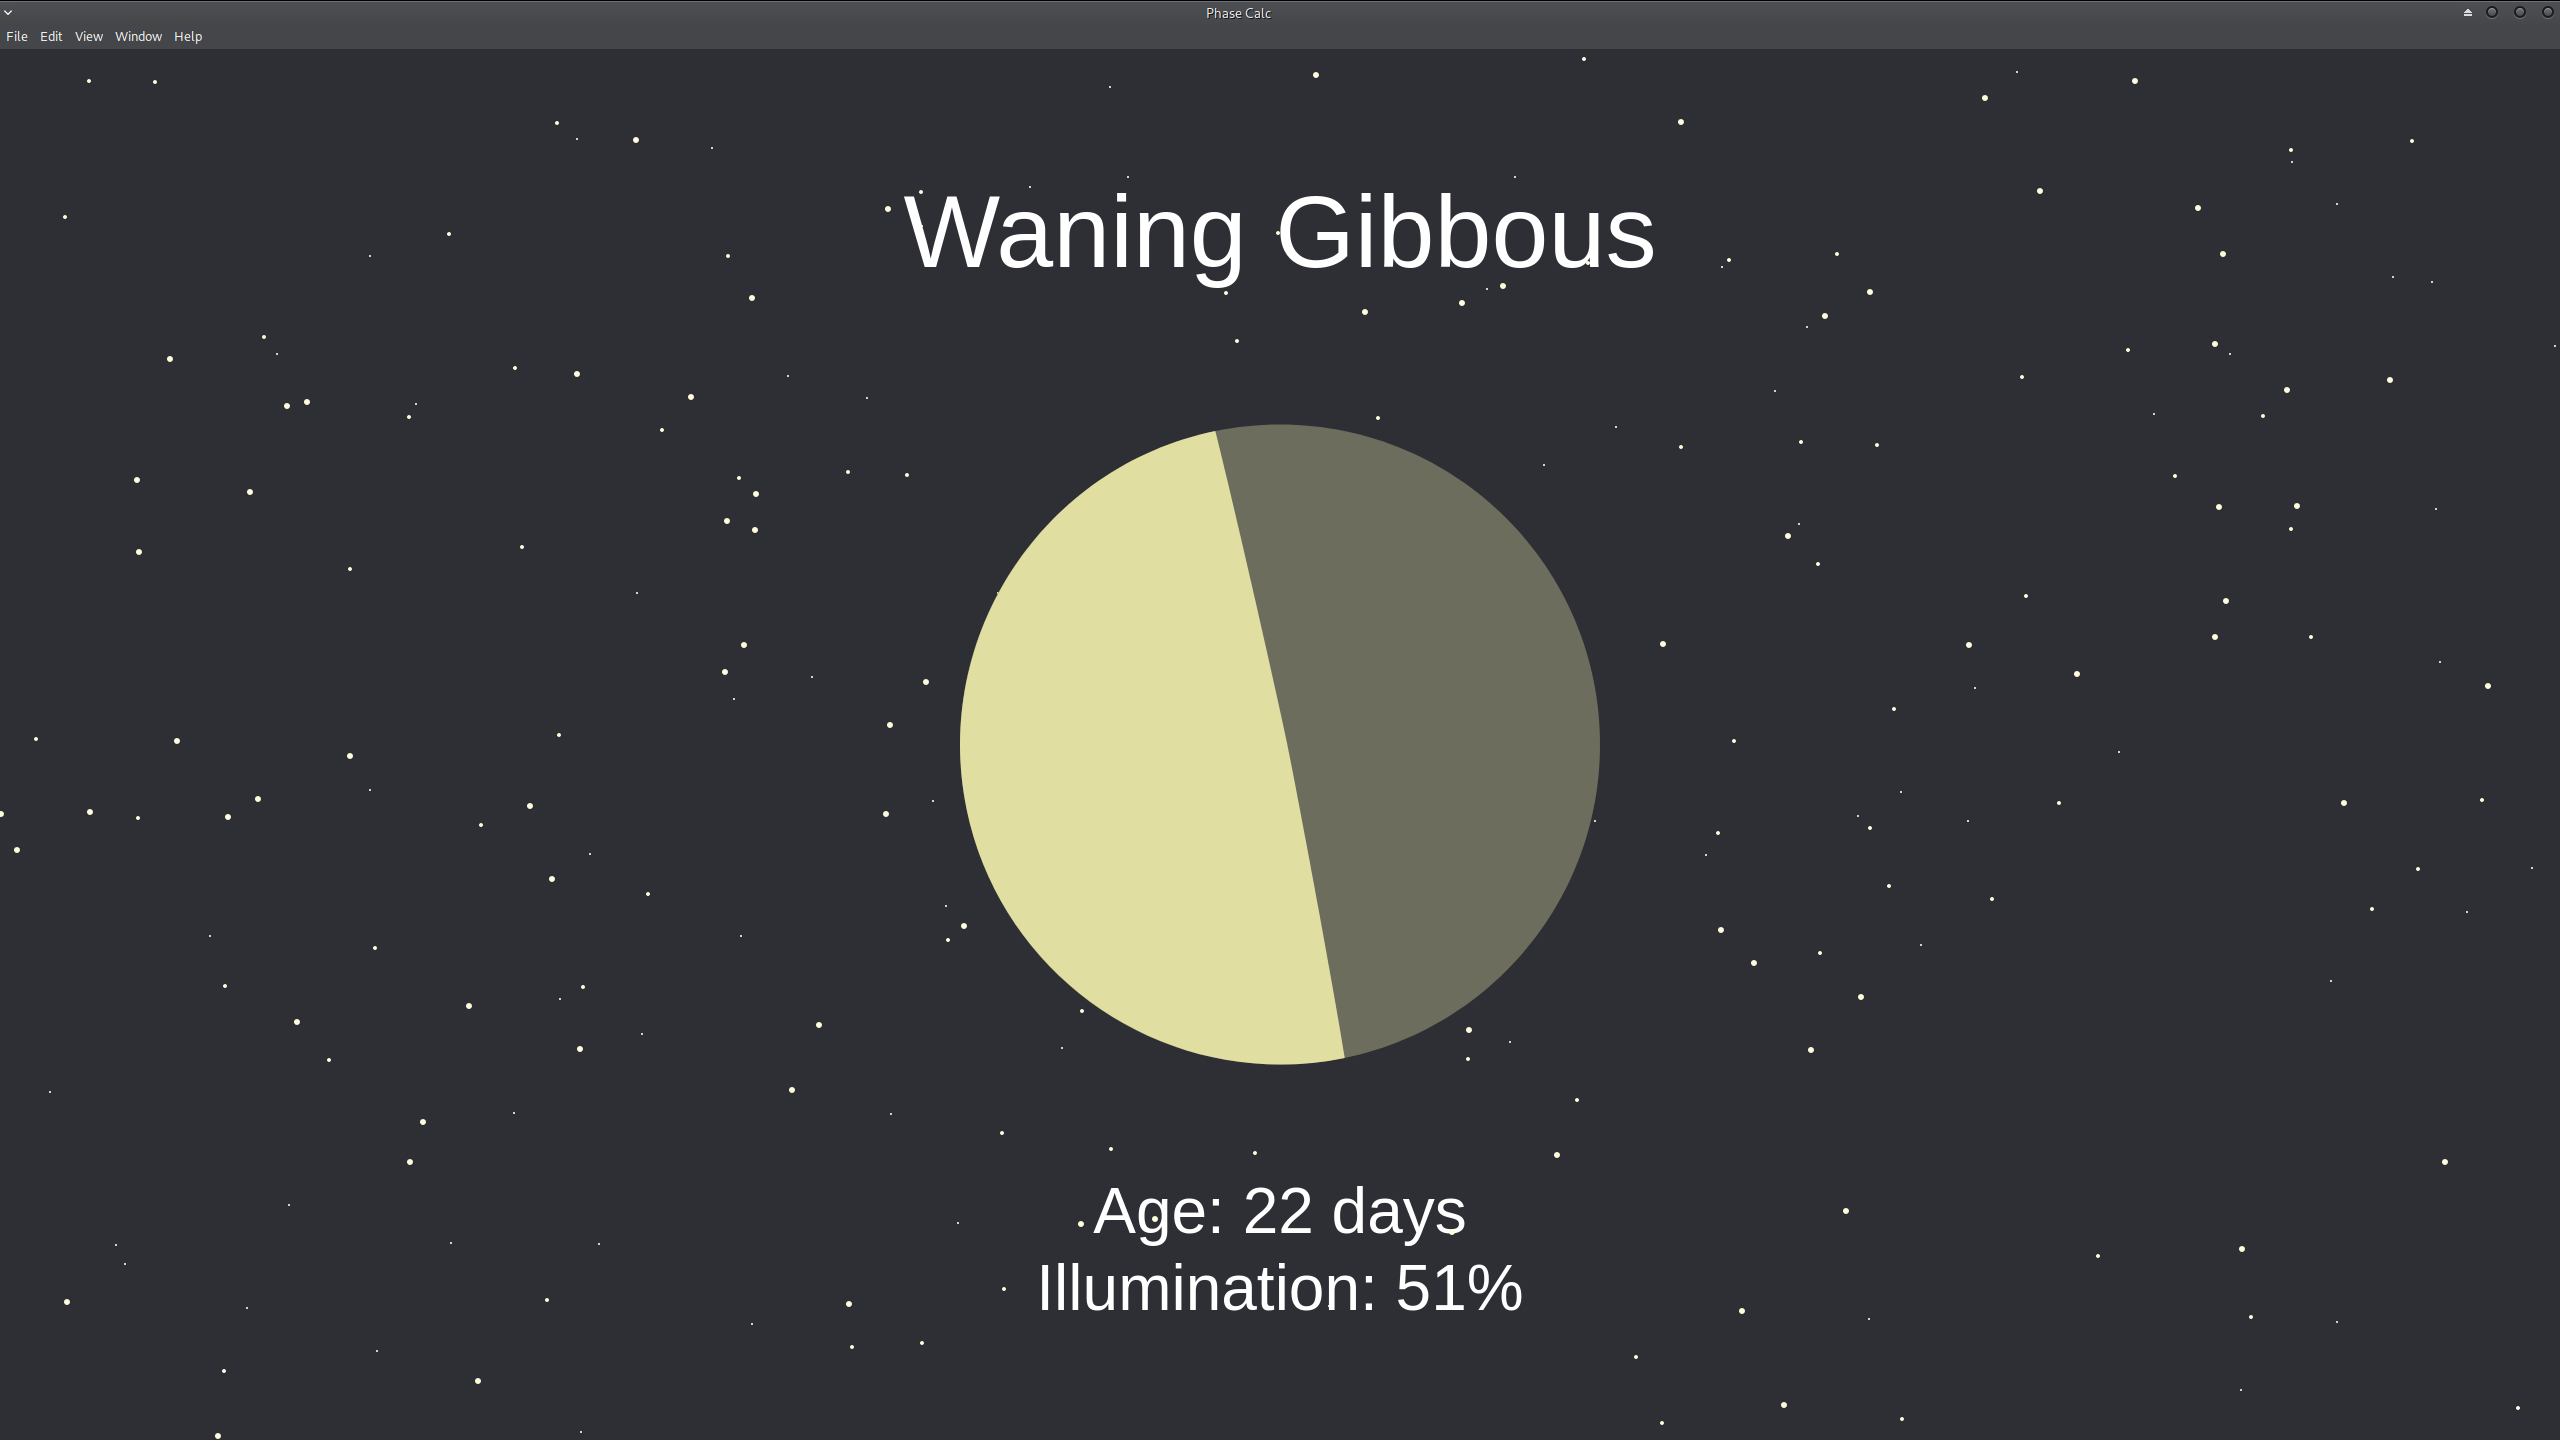
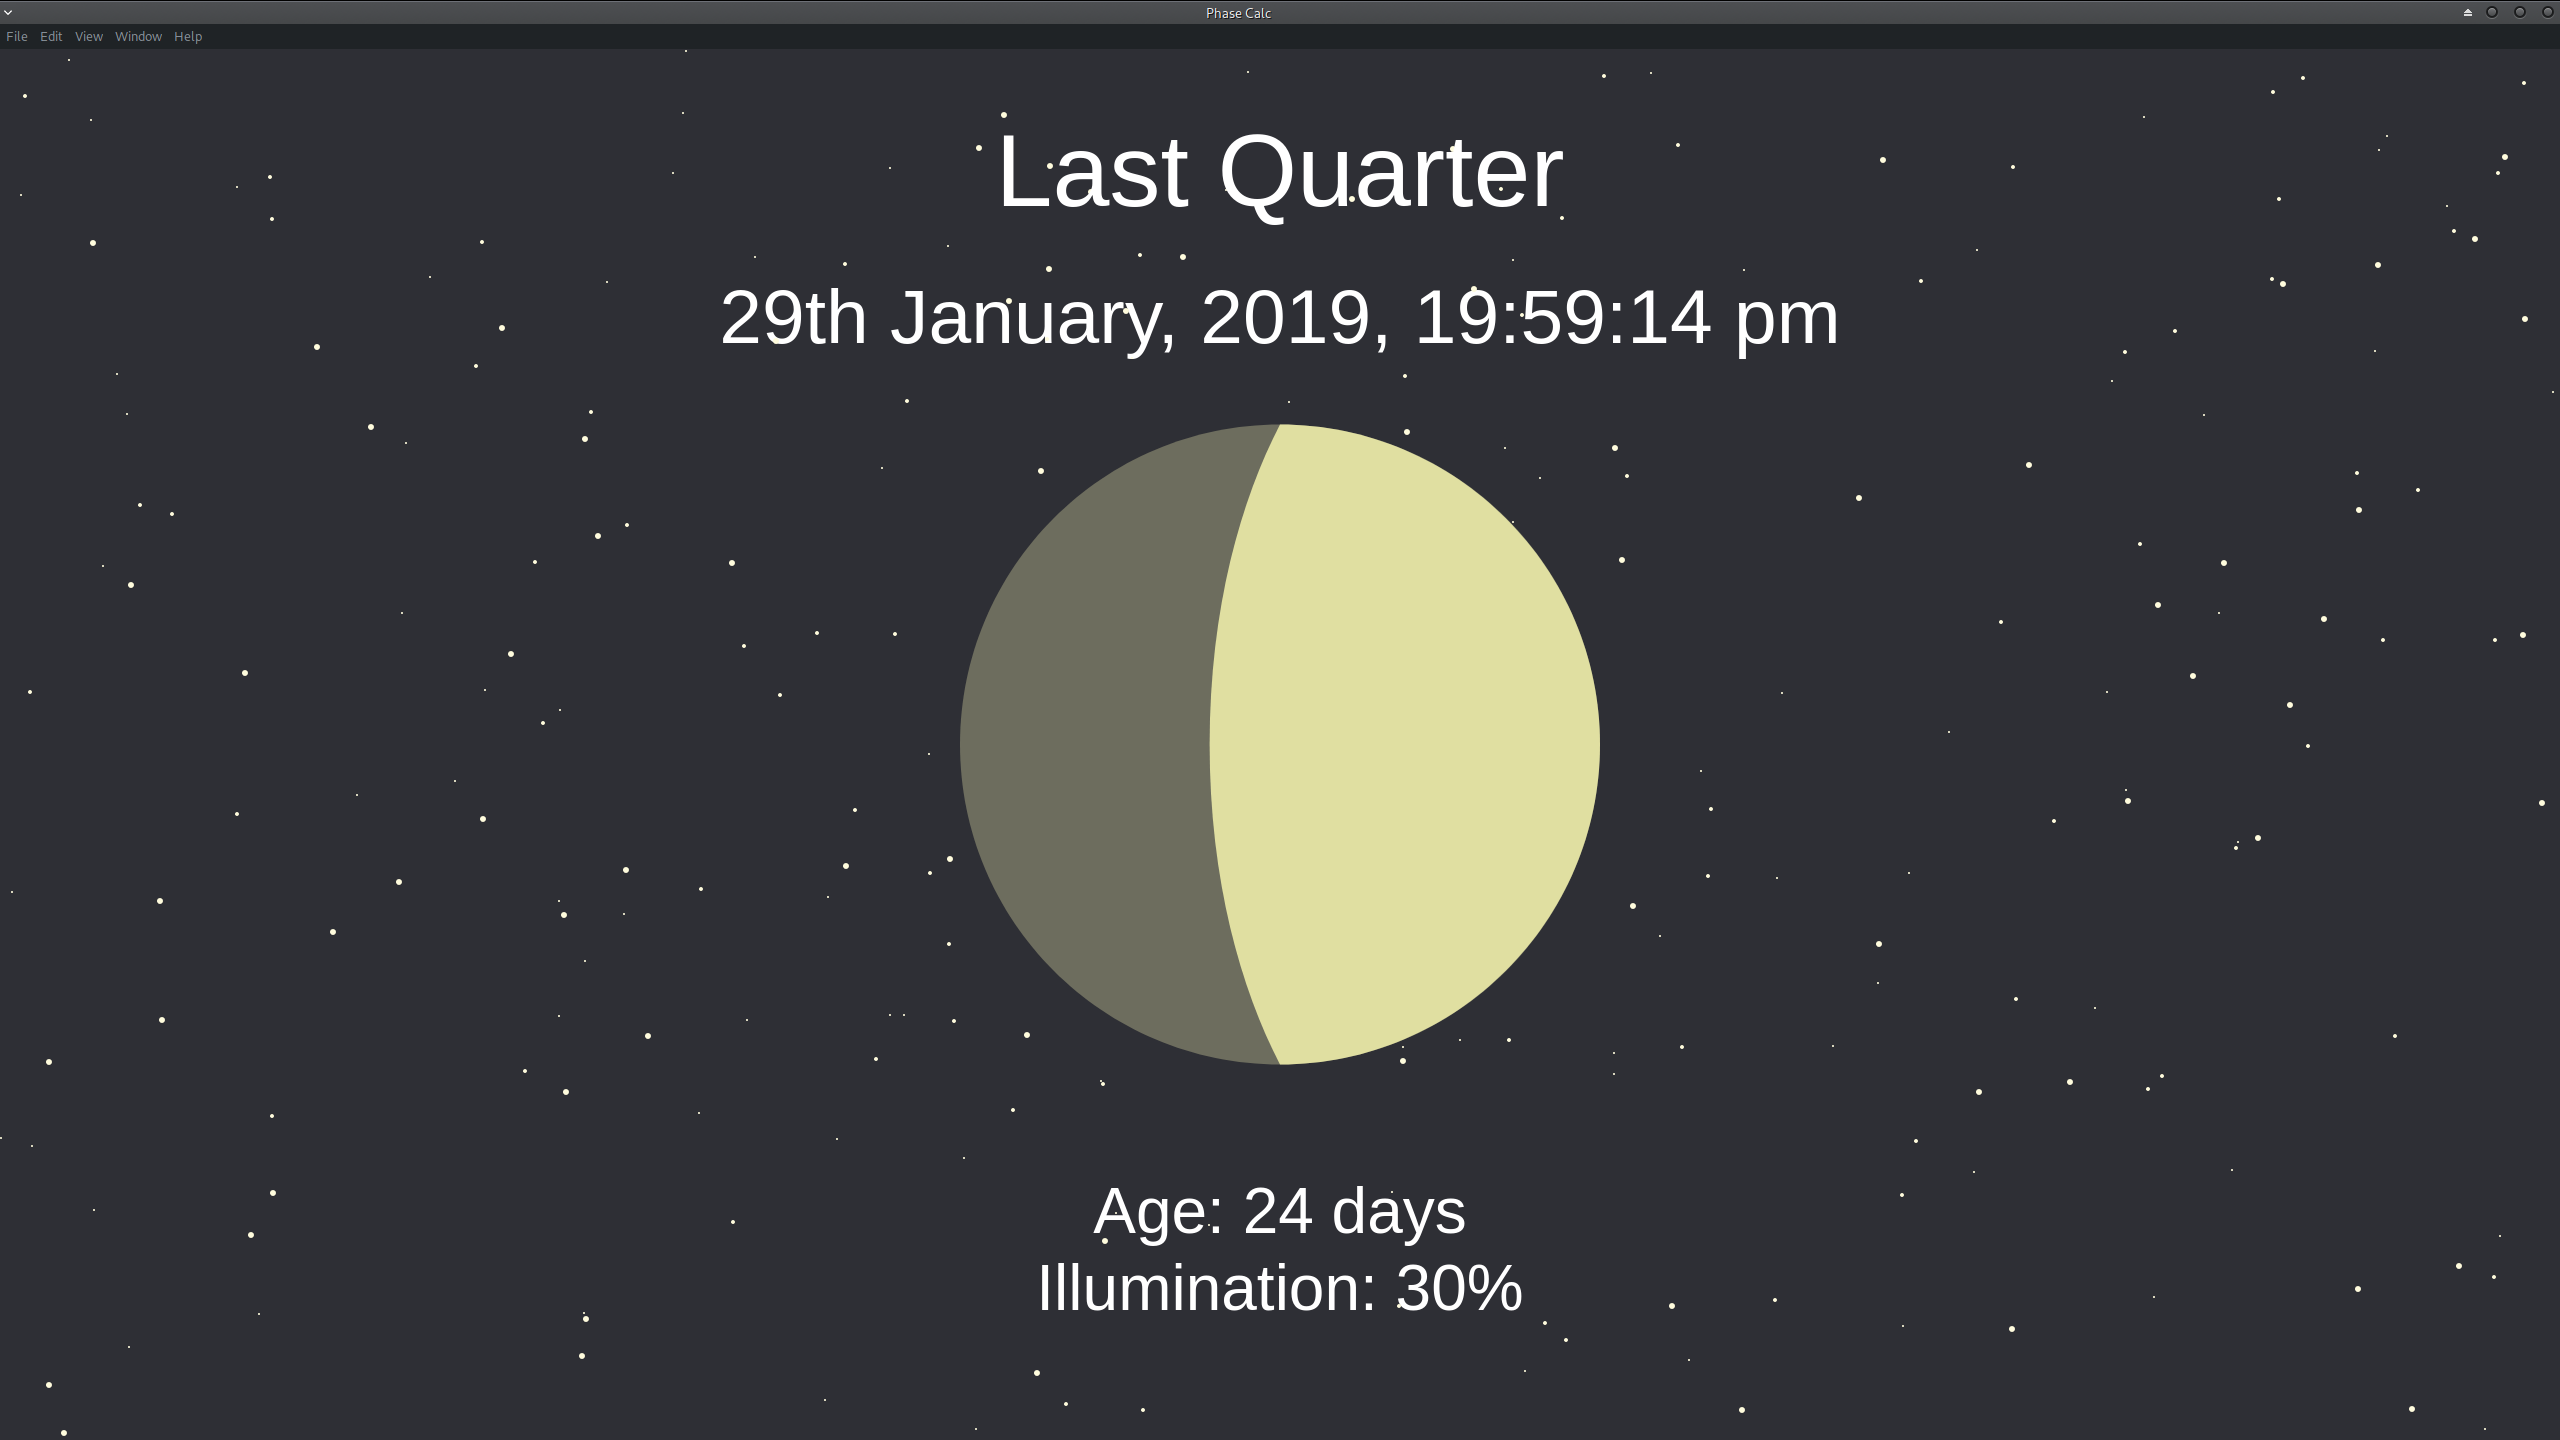
Date string under moon name

diff --git a/app/static/scripts/paperMoon.js b/app/static/scripts/paperMoon.js
@@ -69,12 +69,13 @@ function setCrescentCurve(xVal) {
 	
 	curve[0].handle2.x = curve[3].handle1.x = deltaX55
 	
-	curve[0].handle1.y = deltaX55 - ((cirLen - Math.abs(deltaX55)) * 0.12)
+	curve[0].handle1.y = curve[1].handle2.y - deltaX55
+	// curve[0].handle1.y = deltaX55 - ((cirLen - Math.abs(deltaX55)) * 0.2)
 	curve[3].handle2.y = -curve[0].handle1.y
 	
 	crescent.segments[0].point.x = 
-		crescent.segments.slice(-1)[0].point.x = 
-		xVal
+		crescent.segments.slice(-1)[0].point.x = xVal
+	// crescent.fullySelected = true
 }
 
 function setCrescentLocation() {
@@ -104,13 +105,15 @@ function getPercentAndQuarter(percent) {
 
 function setCrescentRotateAndColors(info, angle) {
 	if(info.quarter == 0 || info.quarter == 2)
-		crescent.rotate(180 - angle, view.center)
-	else
-		crescent.rotate(angle, view.center)
+		crescent.rotate(180, view.center)
 	if(info.quarter == 1 || info.quarter == 2) {
 		moon.fillColor = crescentCol
 		crescent.fillColor = moonCol
 	}
+	if(info.quarter == 0)
+		crescent.rotate(angle, view.center)
+	else if (info.quarter != 1)
+		crescent.rotate(-angle, view.center)
 }
 
 //------------------------------------- Stars
@@ -143,7 +146,12 @@ var moonTitle = new PointText(new Point(widthMid, (heightMid - cirLen) / 2))
 moonTitle.justification = 'center'
 moonTitle.fillColor = 'white'
 moonTitle.fontSize = view.size.width * 0.04
-moonTitle.content = moonInfo.moonName
+moonTitle.content = moonInfo.moonName + '\n'
+var dateString = new PointText(new Point(widthMid, ((heightMid - cirLen) * 1.2) / 2))
+dateString.justification = 'center'
+dateString.fillColor = 'white'
+dateString.fontSize = view.size.width * 0.03
+dateString.content = '\n' + moonInfo.dateString
 var moonInfoText = new PointText(new Point(widthMid, heightMid + cirLen + (heightMid - cirLen) / 2))
 moonInfoText.justification = 'center'
 moonInfoText.fillColor = 'white'
@@ -153,6 +161,8 @@ moonInfoText.content = 'Age: ' + Math.round(moonInfo.currentPhase.age) + ' days\
 function positionText() {
 	moonTitle.fontSize = view.size.width * 0.04
 	moonTitle.position = new Point(widthMid, (heightMid - cirLen) / 2)
+	dateString.fontSize = view.size.width * 0.03
+	dateString.position = new Point(widthMid, ((heightMid - cirLen) * 1.2) / 2)
 	moonInfoText.fontSize = view.size.width * 0.025
 	moonInfoText.position = new Point(widthMid, heightMid + cirLen + (heightMid - cirLen) / 2)
 }

diff --git a/app/static/scripts/moonView.js b/app/static/scripts/moonView.js
@@ -1,4 +1,5 @@
 var lune = require('lune')
+var dateFormat = require('dateformat');
 var currentPhase = lune.phase()
 
 function retMoonName(phaseNum) {
@@ -24,7 +25,10 @@ function retMoonName(phaseNum) {
 
 const moonName = retMoonName(parseInt(currentPhase.phase * 8))
 
+var dateString = dateFormat(new Date(), "dS mmmm, yyyy, HH:MM:ss tt")
+
 module.exports = {
     currentPhase,
-    moonName
+    moonName,
+    dateString
 }
